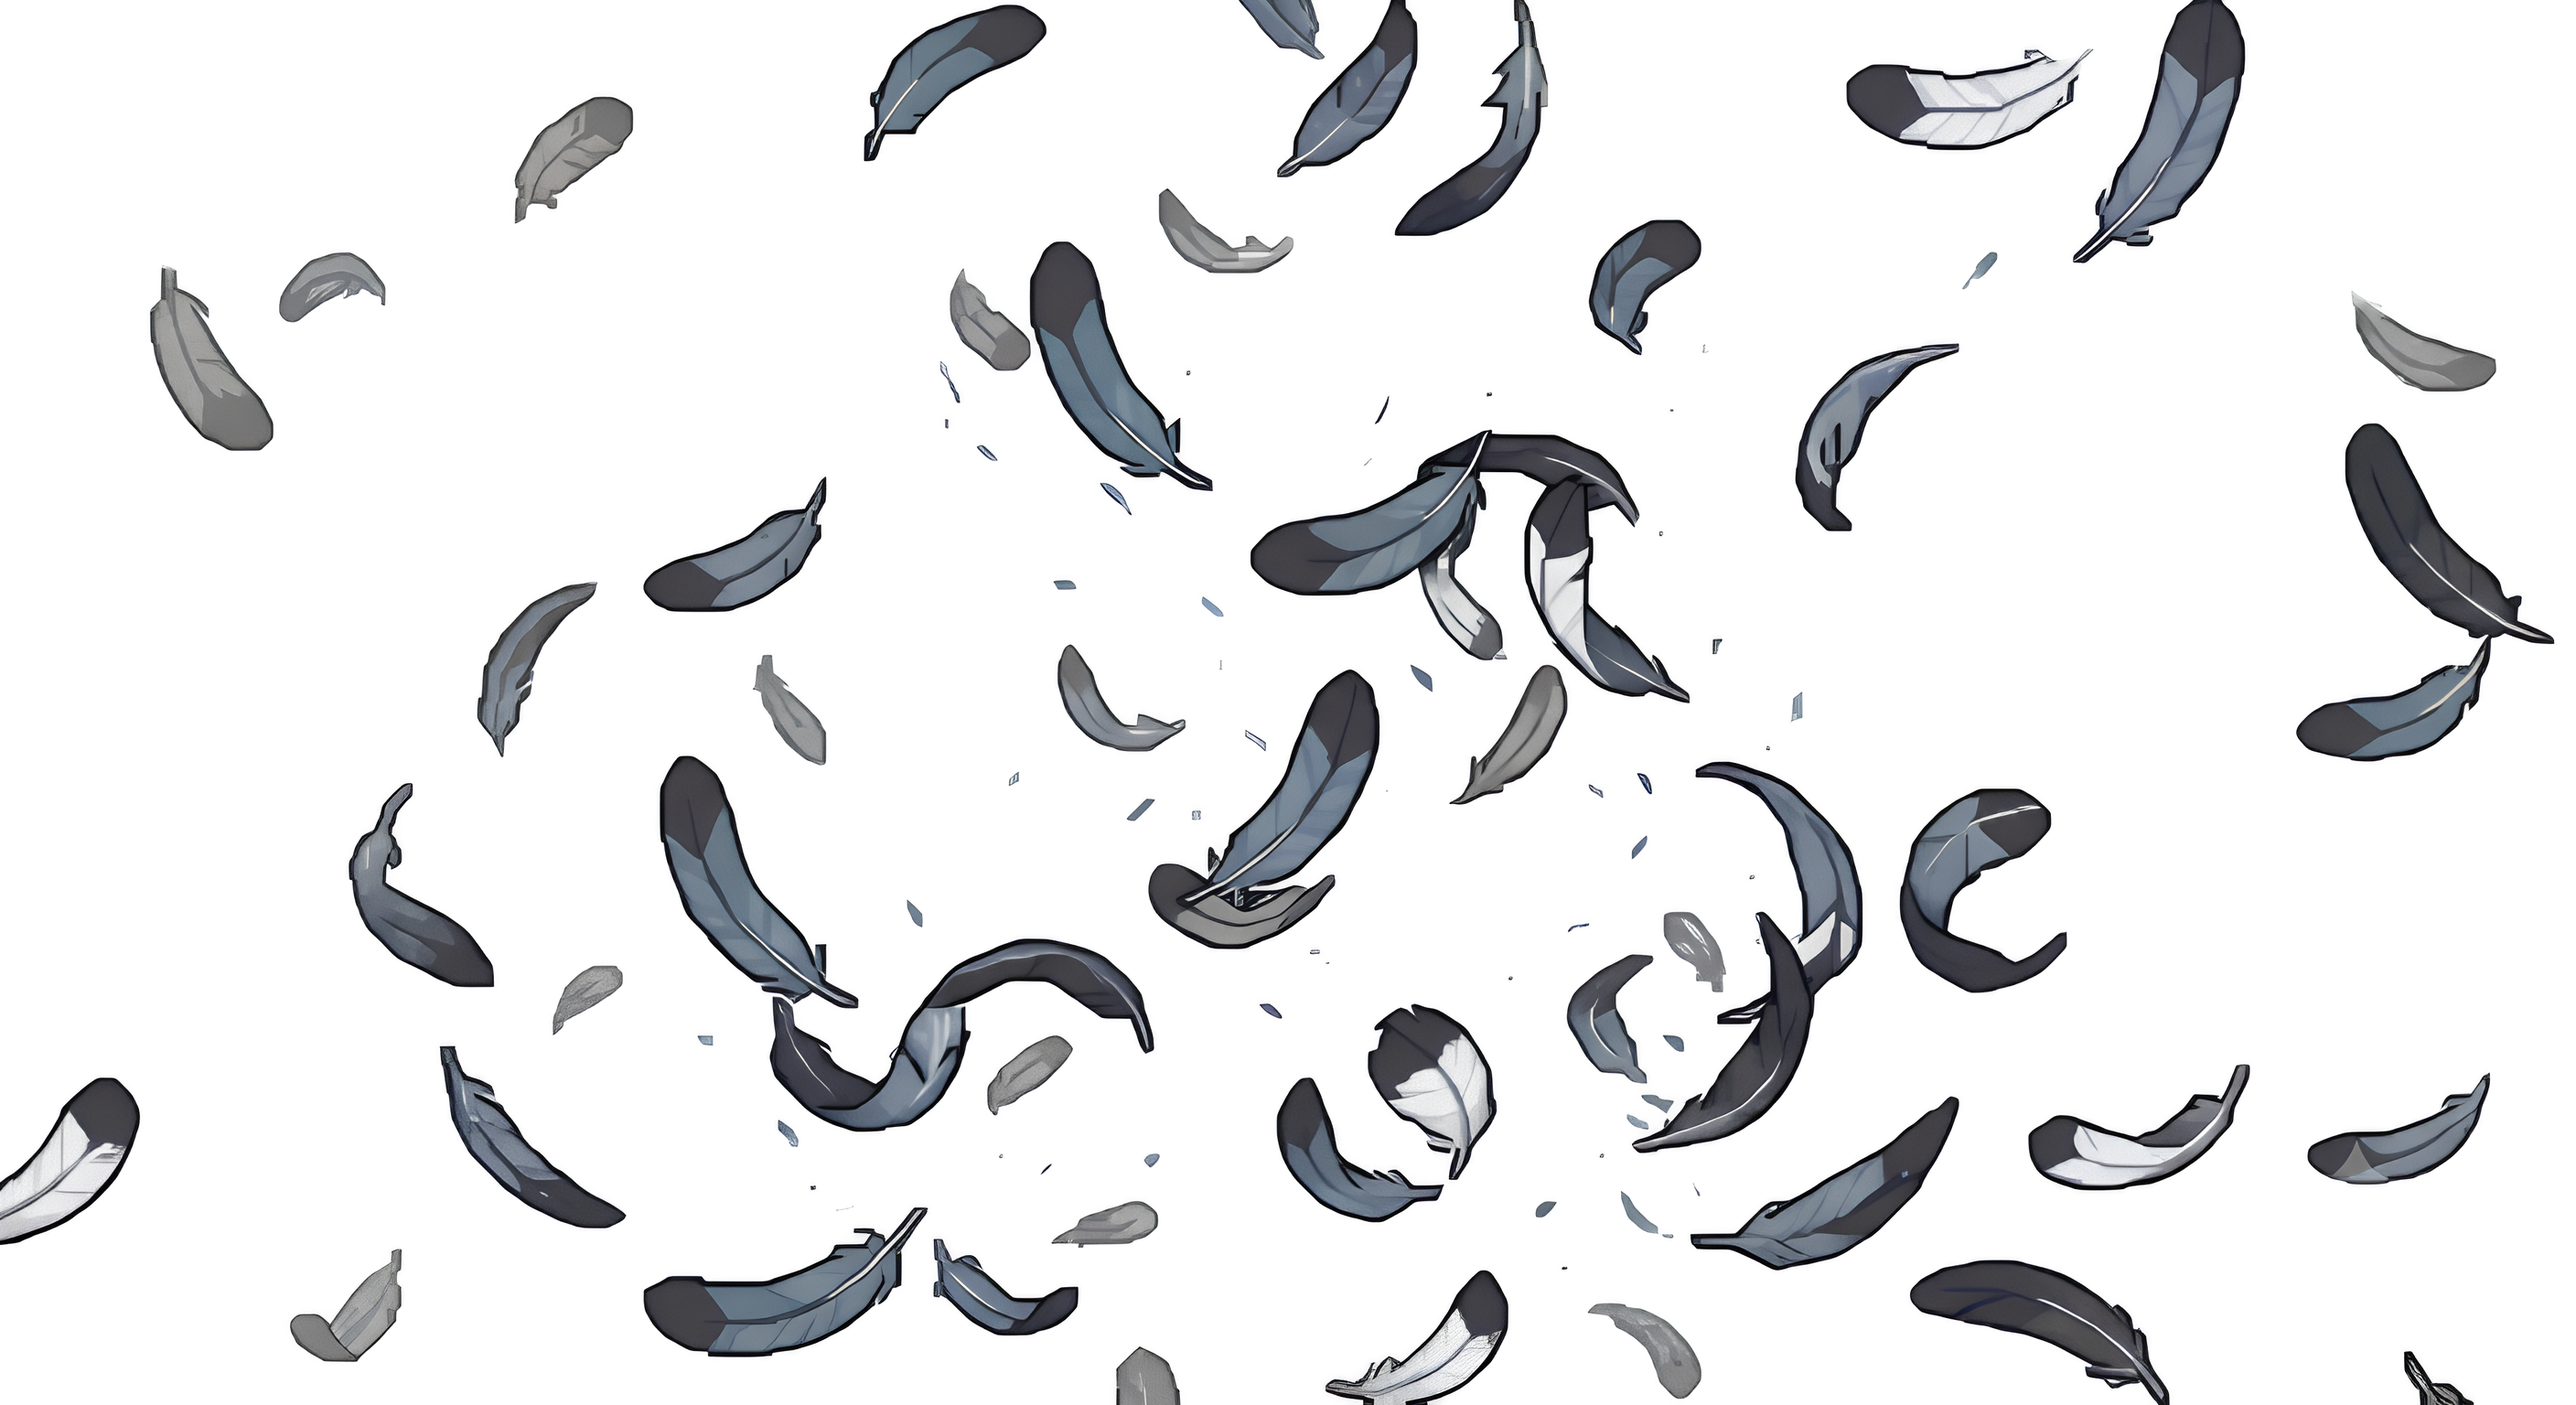
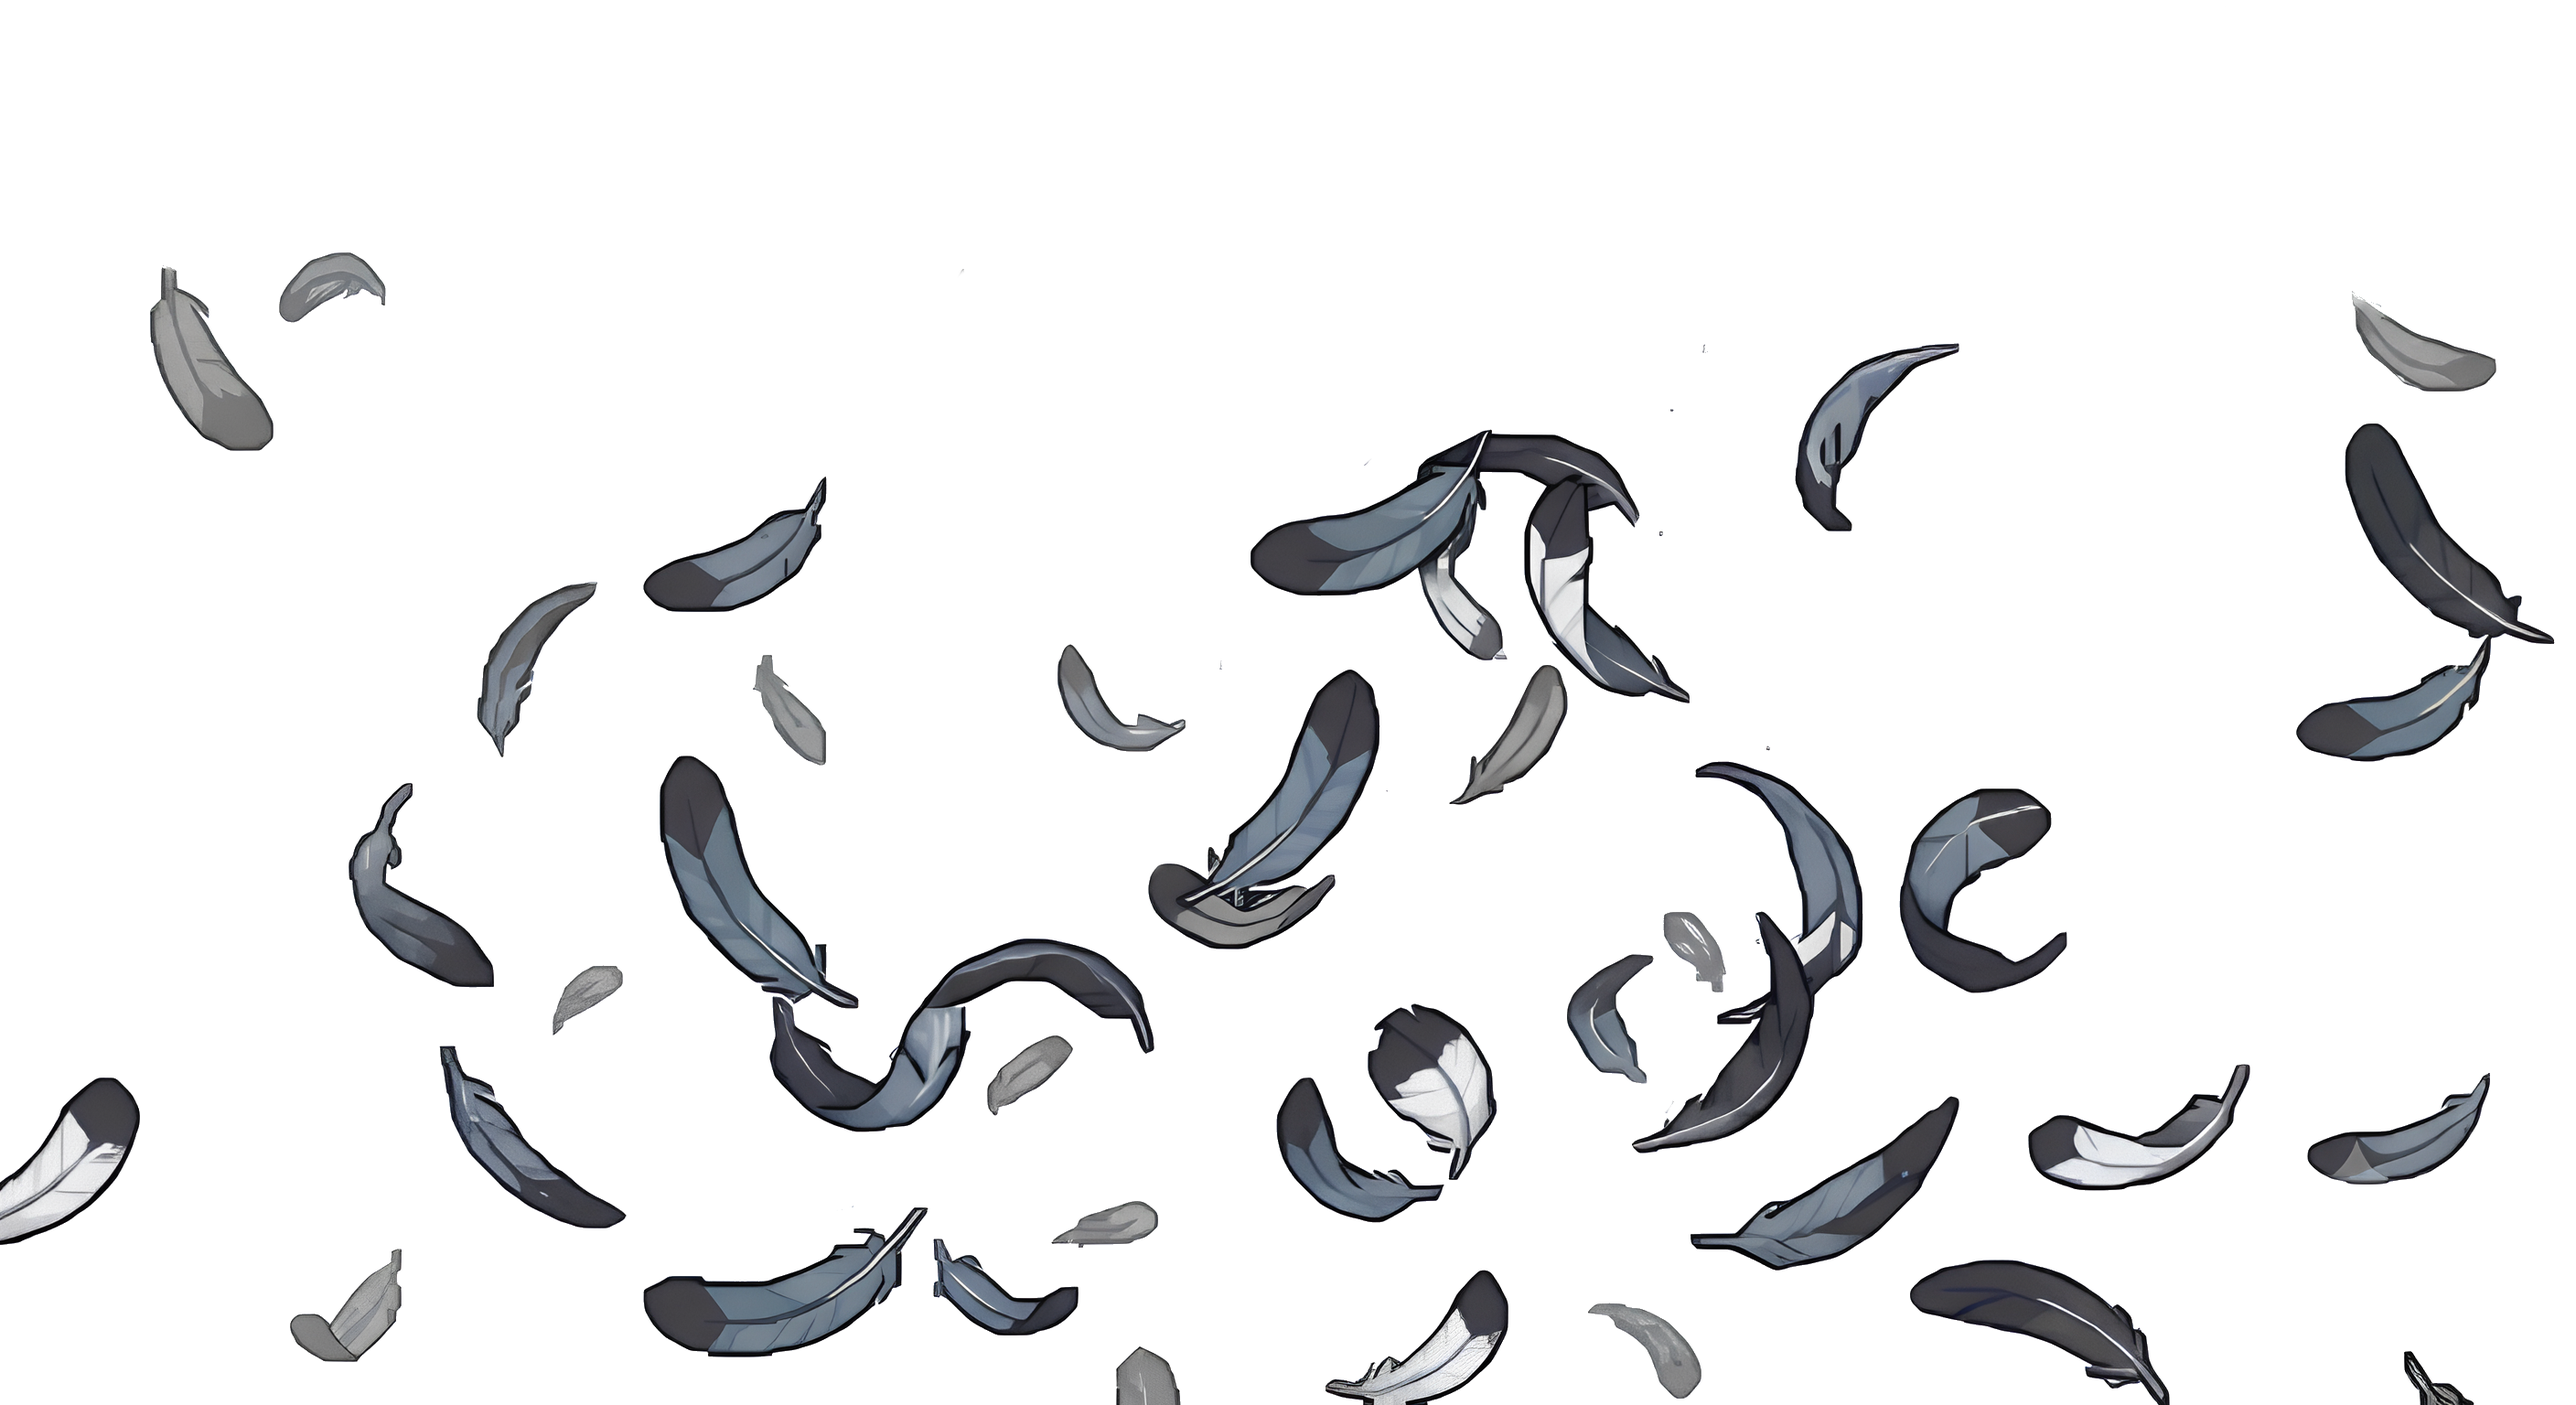
modifica delle grafiche

diff --git a/src/components/PigeonBlaster.tsx b/src/components/PigeonBlaster.tsx
@@ -5,6 +5,11 @@ import * as poseDetection from '@tensorflow-models/pose-detection/dist/index.js'
 import { drawKeypoints, drawArm, getKeypoint } from '../pose-utils'; 
 import piccioneTerra from '../assets/png/piccione-terra.png';
 
+//immagine sfondo in caso game over
+import gameOverBg from "../assets/png/game-over.png";
+const gameOverImage = new Image();
+gameOverImage.src = gameOverBg;
+
 const VIDEO_WIDTH = 640;
 const VIDEO_HEIGHT = 480;
 const Pigeon_SIZE = 80;
@@ -296,16 +301,21 @@ function PigeonBlaster() {
       }
     }
 
-    drawTextUnflipped(`Punteggio: ${scoreRef.current}`, 30, 115, "bold 24px Arial", "white");
-    drawTextUnflipped(`Record: ${highScoreRef.current}`, 30, 150, "bold 20px Arial", "#FFD700");
+    drawTextUnflipped(`Punteggio: ${scoreRef.current}`, 30, 115, "bold 24px PPNeueBit", "white");
+    drawTextUnflipped(`Record: ${highScoreRef.current}`, 30, 150, "bold 20px PPNeueBit", "#FFD700");
 
     if (isGameOverRef.current) {
-      ctx.fillStyle = "rgba(0, 0, 0, 0.7)";
-      ctx.fillRect(0, 0, VIDEO_WIDTH, VIDEO_HEIGHT);
+      ctx.drawImage(
+        gameOverImage,
+        0,
+        0,
+        VIDEO_WIDTH,
+        VIDEO_HEIGHT
+    );
 
-      drawTextUnflipped("HAI PERSO", VIDEO_WIDTH / 2, VIDEO_HEIGHT / 2 - 30, "bold 55px Arial", "#FF3333", "center");
-      drawTextUnflipped(`Picconi Presi: ${scoreRef.current}`, VIDEO_WIDTH / 2, VIDEO_HEIGHT / 2 + 20, "bold 24px Arial", "white", "center");
-      drawTextUnflipped(`Record Massimo: ${highScoreRef.current}`, VIDEO_WIDTH / 2, VIDEO_HEIGHT / 2 + 55, "bold 22px Arial", "#FFD700", "center");
+      drawTextUnflipped("HAI PERSO", VIDEO_WIDTH / 2, VIDEO_HEIGHT / 2 - 30, "bold 65px PPNeueBit", "#ffffff", "center");
+      drawTextUnflipped(`Piccioni Presi: ${scoreRef.current}`, VIDEO_WIDTH / 2, VIDEO_HEIGHT / 2 + 20, "bold 24px PPNeueBit", "white", "center");
+      drawTextUnflipped(`Record Massimo: ${highScoreRef.current}`, VIDEO_WIDTH / 2, VIDEO_HEIGHT / 2 + 55, "bold 22px PPNeueBit", "#FFD700", "center");
     }
 
     animationRef.current = requestAnimationFrame(loop);
@@ -346,74 +356,8 @@ function PigeonBlaster() {
     }
   }, [selectedDeviceId]);
 
-  // return (
-  //   <div style={{ textAlign: "center", fontFamily: "sans-serif", padding: "10px" }}>
-  //     <h2>Pigeon Blaster 🐦</h2>
-      
-  //     <div style={{ margin: "10px auto", display: "flex", justifyContent: "center", gap: "25px", fontSize: "18px" }}>
-  //       <span>Punteggio Corrente: <strong>{score}</strong></span>
-  //       <span>Vite: <strong>{lives}/3</strong></span>
-  //       <span>Record Attuale: <strong>{highScore}</strong></span>
-  //     </div>
-
-  //     <div style={{ marginBottom: "15px", display: "flex", justifyContent: "center", gap: "15px", alignItems: "center" }}>
-  //       <div>
-  //         <label htmlFor="camera-select" style={{ marginRight: "10px", fontWeight: "bold" }}>
-  //           Fotocamera: 
-  //         </label>
-  //         <select
-  //           id="camera-select"
-  //           value={selectedDeviceId}
-  //           onChange={(e) => setSelectedDeviceId(e.target.value)}
-  //           style={{ padding: "6px 12px", fontSize: "16px", borderRadius: "4px" }}
-  //         >
-  //           {devices.map((device) => (
-  //             <option key={device.deviceId} value={device.deviceId}>
-  //               {device.label || `Camera ${device.deviceId.slice(0, 5)}`}
-  //             </option>
-  //           ))}
-  //         </select>
-  //       </div>
-
-  //       {isGameOver && (
-  //         <button 
-  //           onClick={restartGame}
-  //           style={{
-  //             padding: "8px 16px",
-  //             fontSize: "16px",
-  //             fontWeight: "bold",
-  //             backgroundColor: "#FF3333",
-  //             color: "white",
-  //             border: "none",
-  //             borderRadius: "4px",
-  //             cursor: "pointer"
-  //           }}
-  //         >
-  //           Riprova 🔄
-  //         </button>
-  //       )}
-  //     </div>
-
-  //     <canvas
-  //       ref={canvasRef}
-  //       width={VIDEO_WIDTH}
-  //       height={VIDEO_HEIGHT}
-  //       style={{ 
-  //         border: "3px solid #333", 
-  //         borderRadius: "8px",
-  //         maxWidth: "100%", 
-  //         height: "auto",
-  //         transform: "scaleX(-1)" 
-  //       }}
-  //     />
-
-  //     <video ref={videoRef} style={{ display: "none" }} />
-  //   </div>
-  // );
-
   return (
     <div className="game-container">
-      {/* Header con Titoli e Piccioni Specchiati */}
       <div className="header-container">
         <img 
           src={piccioneTerra} 
@@ -462,7 +406,7 @@ function PigeonBlaster() {
 
         {isGameOver && (
           <button onClick={restartGame} className="btn-retry">
-            Riprova 🔄
+            Riprova
           </button>
         )}
       </div>

diff --git a/src/components/PigeonBlaster.css b/src/components/PigeonBlaster.css
@@ -9,10 +9,12 @@
 /* Container Principale con Sfondo */
 .game-container {
   text-align: center;
-  font-family: 'Arial', sans-serif;
+  font-family: 'PPNeueBit', sans-serif;
   /* padding: 20px; */
   min-height: 100vh;
-  background-image: url('../assets/png/sfondo-piume.png'); /* Adattato se rinominato .jpg o .png */
+  background-image: 
+    url('../assets/png/sfondo-piume.png'),
+    url('../assets/png/sfondo-cielo.png');
   background-size: cover;
   background-position: center;
   background-repeat: no-repeat;
@@ -24,8 +26,9 @@
   display: flex;
   align-items: center;
   justify-content: center;
-  gap: 20px;
+  gap: 4px;
   margin-bottom: 10px;
+  position: relative;
 }
 
 /* Testi con il font PPNeueBit */
@@ -33,7 +36,9 @@
   display: flex;
   flex-direction: column;
   align-items: center;
-  line-height: 0.9;
+  line-height: 0.82;
+  position: relative;
+  z-index: 2;
 }
 
 .main-title {
@@ -46,36 +51,84 @@
 
 .subtitle {
   font-family: 'PPNeueBit', sans-serif;
-  font-size: 32px;
+  font-size: 40px;
   font-weight: bold;
-  margin: 0;
+  margin: -10px 0 0;
   color: #000000;
 }
 
-/* Immagini decorative dei piccioni */
+/* piccioni animati nell'header */
+
 .pigeon-decor {
-  width: 90px; /* Regola in base alle proporzioni del mockup */
+  width: 140px;
   height: auto;
   object-fit: contain;
+  position: relative;
+
+  animation: pigeonBob 0.7s ease-in-out infinite;
+  transform-origin: 50% 75%;
 }
 
 .pigeon-left {
-  /* Di base rivolto a destra o sinistra a seconda dell'immagine originale */
+  z-index: 3;
+  margin-right: -340px;
 }
 
+/* quello di destra resta specchiato */
 .pigeon-right {
-  transform: scaleX(-1); /* Specchiato */
+  z-index: 1;
+  margin-left: -360px;
+  transform: scaleX(-1);
+  animation: pigeonBobRight 0.7s ease-in-out infinite;
+}
+
+@keyframes pigeonBob {
+  0%, 100% {
+    transform: translateY(0) rotate(0deg);
+  }
+
+  25% {
+    transform: translate(2px, 2px) rotate(5deg);
+  }
+
+  50% {
+    transform: translate(4px, 4px) rotate(8deg);
+  }
+
+  75% {
+    transform: translate(2px, 2px) rotate(4deg);
+  }
+}
+
+@keyframes pigeonBobRight {
+  0%, 100% {
+    transform: scaleX(-1) translateY(0) rotate(0deg);
+  }
+
+  25% {
+    transform: scaleX(-1) translate(2px, 2px) rotate(-5deg);
+  }
+
+  50% {
+    transform: scaleX(-1) translate(4px, 4px) rotate(-8deg);
+  }
+
+  75% {
+    transform: scaleX(-1) translate(2px, 2px) rotate(-4deg);
+  }
 }
 
 /* Barra delle statistiche */
 .stats-bar {
-  margin: 15px auto;
+  /* margin: 15px auto; */
+  margin: 60px 30px auto;
   display: flex;
   justify-content: center;
   gap: 30px;
+  font-family: 'Helvetica', sans-serif;
   font-size: 18px;
   font-weight: bold;
-  color: #000000;
+  color: #6d009f;
 }
 
 /* Controlli e canvas */
@@ -89,22 +142,26 @@
 
 .camera-label {
   margin-right: 10px;
+  font-family: 'Helvetica', sans-serif;
+  font-size: 18px;
   font-weight: bold;
-  color: #000000;
+  color: #6d009f;
 }
 
 .camera-select {
   padding: 6px 12px;
-  font-size: 16px;
+  font-family: 'Helvetica', sans-serif;
+  font-size: 18px;
   border-radius: 4px;
-  border: 1px solid #333;
+  border: 1px solid #000000;
 }
 
 .btn-retry {
   padding: 8px 16px;
-  font-size: 16px;
+  font-family: 'Helvetica', sans-serif;
+  font-size: 18px;
   font-weight: bold;
-  background-color: #FF3333;
+  background-color: #6d009f;
   color: white;
   border: none;
   border-radius: 4px;
@@ -114,6 +171,7 @@
 .game-canvas {
   border: 9px solid #000000;
   /* border-radius: 8px; */
+  margin: 10px 0px 50px 0px;
   max-width: 100%;
   height: auto;
   transform: scaleX(-1); /* Specchiamento per l'effetto specchio della webcam */
